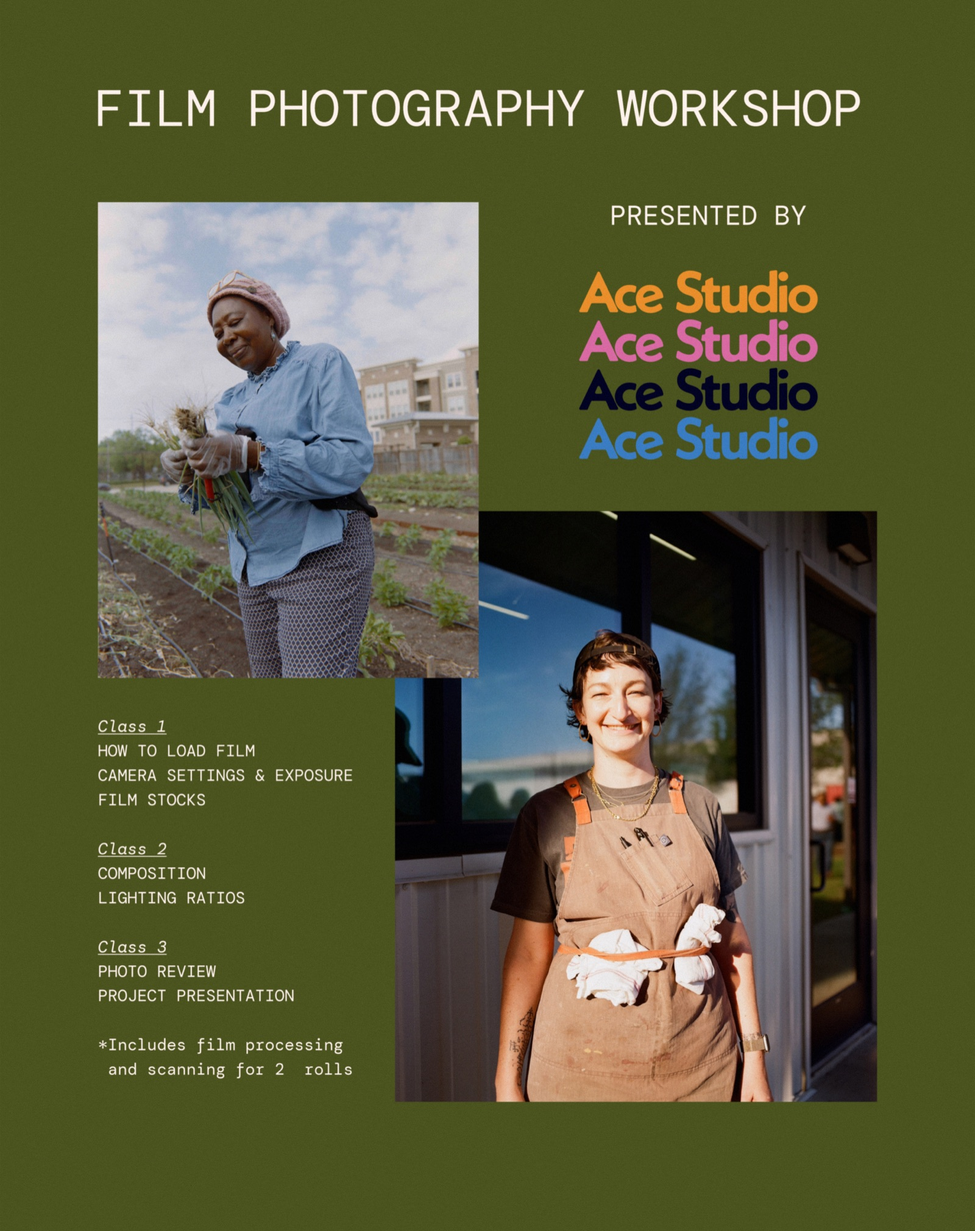
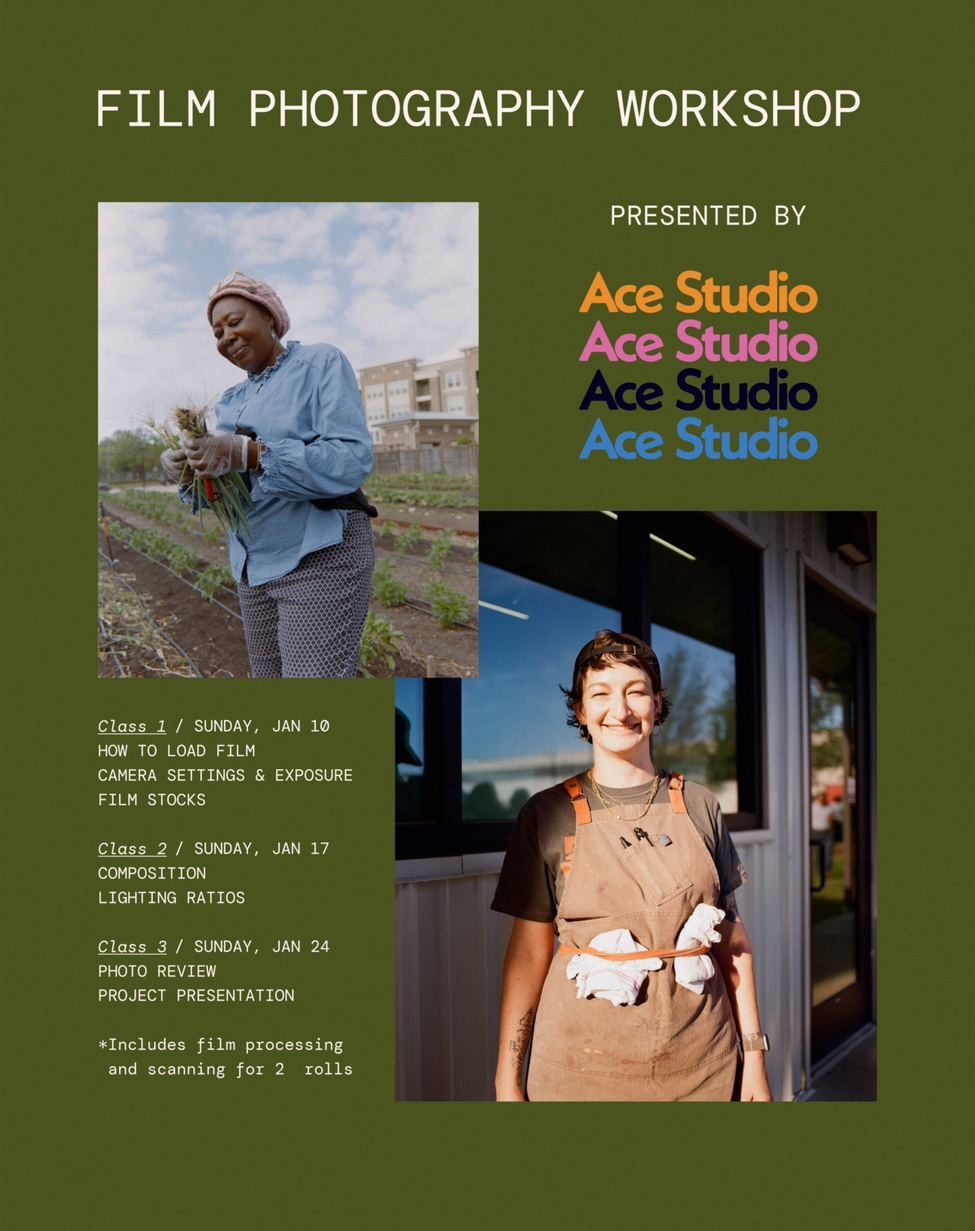
Film Photography Workshop flyer: classes on Jan 10, 17 and 24

diff --git a/index.html b/index.html
@@ -265,7 +265,7 @@ footer{
       </div>
     </div>
     <div class="events-media" data-panel="events" hidden>
-      <img data-flyer="0" alt="Film Photography Workshop flyer: class schedule and presented-by lockup for Ace Studio." src="images/flyer-film-photography-workshop.jpg" width="3000" height="3789" srcset="images/flyer-film-photography-workshop-1600.jpg 1600w, images/flyer-film-photography-workshop.jpg 3000w" sizes="(max-width:860px) 100vw, 75vw" loading="lazy" decoding="async">
+      <img data-flyer="0" alt="Film Photography Workshop flyer: three classes on Sundays, January 10, 17 and 24, presented by Ace Studio." src="images/flyer-film-photography-workshop.jpg" width="3000" height="3789" srcset="images/flyer-film-photography-workshop-1600.jpg 1600w, images/flyer-film-photography-workshop.jpg 3000w" sizes="(max-width:860px) 100vw, 75vw" loading="lazy" decoding="async">
       <img data-flyer="1" alt="Photo Walk flyer: when, where, and what to bring details for the Ace Studio photo walk." src="images/flyer-photo-walk.jpg" width="3000" height="3789" srcset="images/flyer-photo-walk-1600.jpg 1600w, images/flyer-photo-walk.jpg 3000w" sizes="(max-width:860px) 100vw, 75vw" loading="lazy" decoding="async">
       <img data-flyer="2" alt="Photo Lecture Series flyer: Lecture 1 with photographer Raquel Natalicchio, Thursday October 29, 6:30 to 8:00 PM." src="images/flyer-photo-lecture-series.jpg" width="3000" height="3789" srcset="images/flyer-photo-lecture-series-1600.jpg 1600w, images/flyer-photo-lecture-series.jpg 3000w" sizes="(max-width:860px) 100vw, 75vw" loading="lazy" decoding="async">
     </div>
